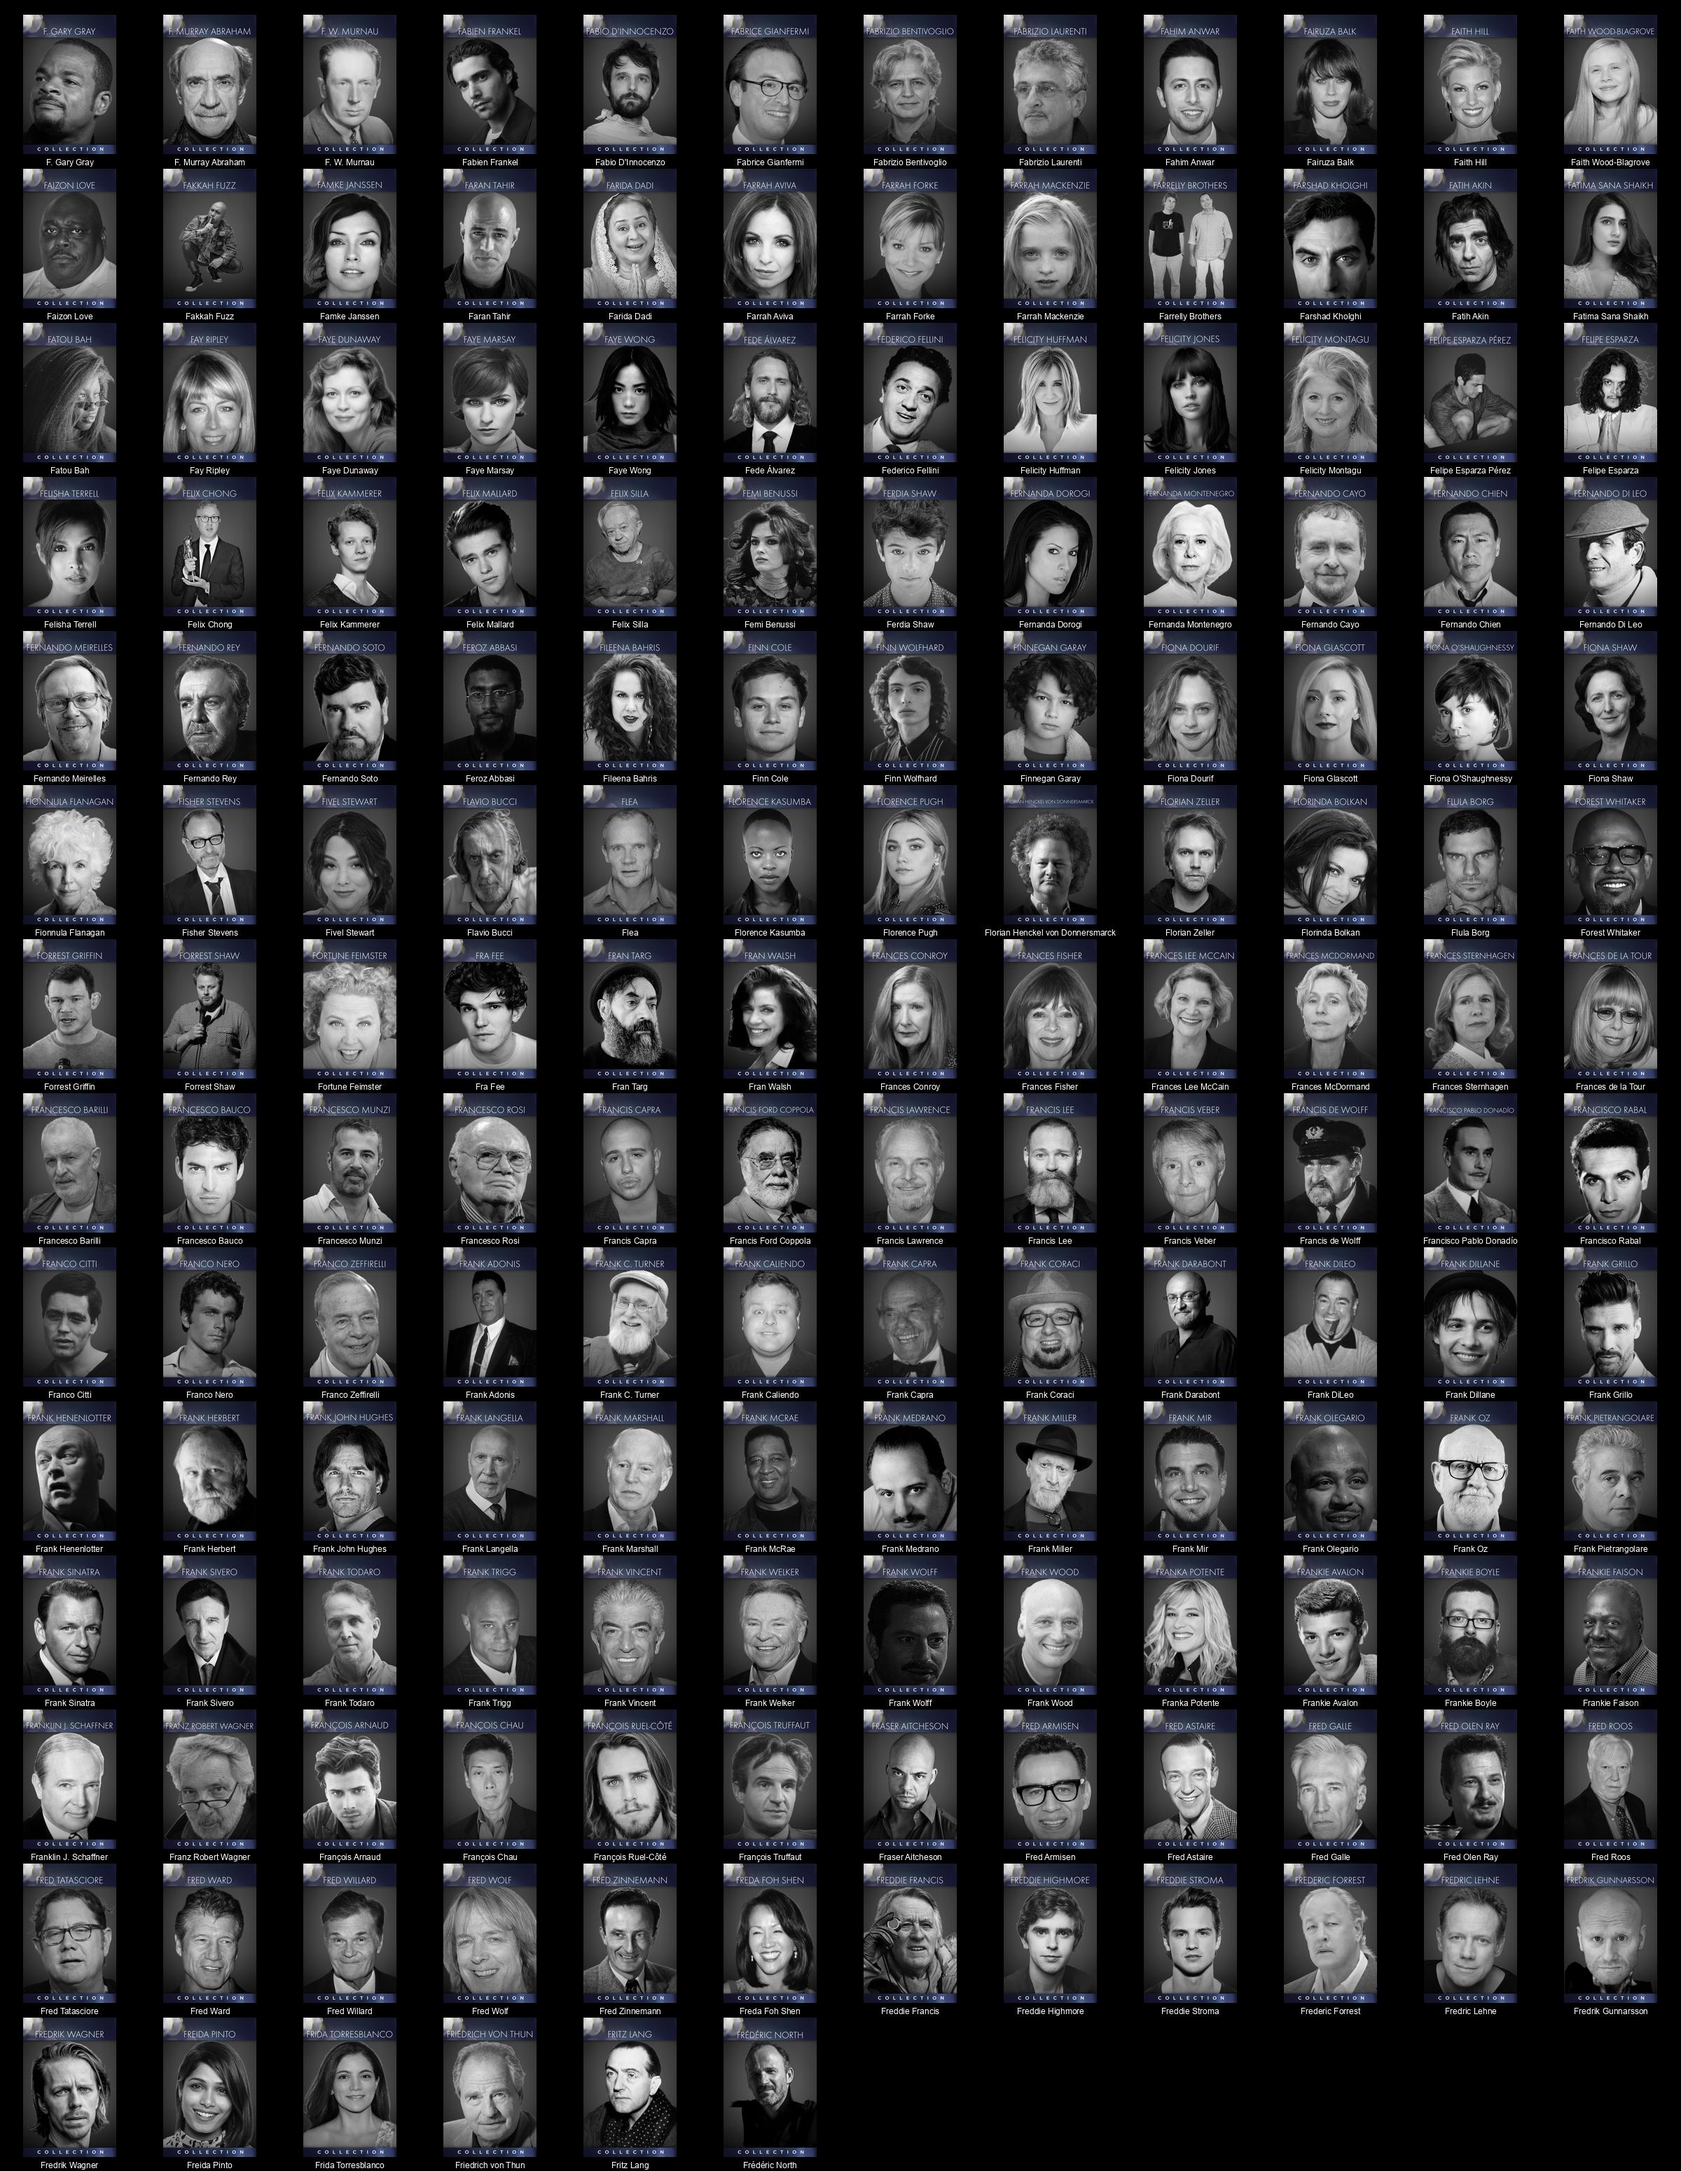
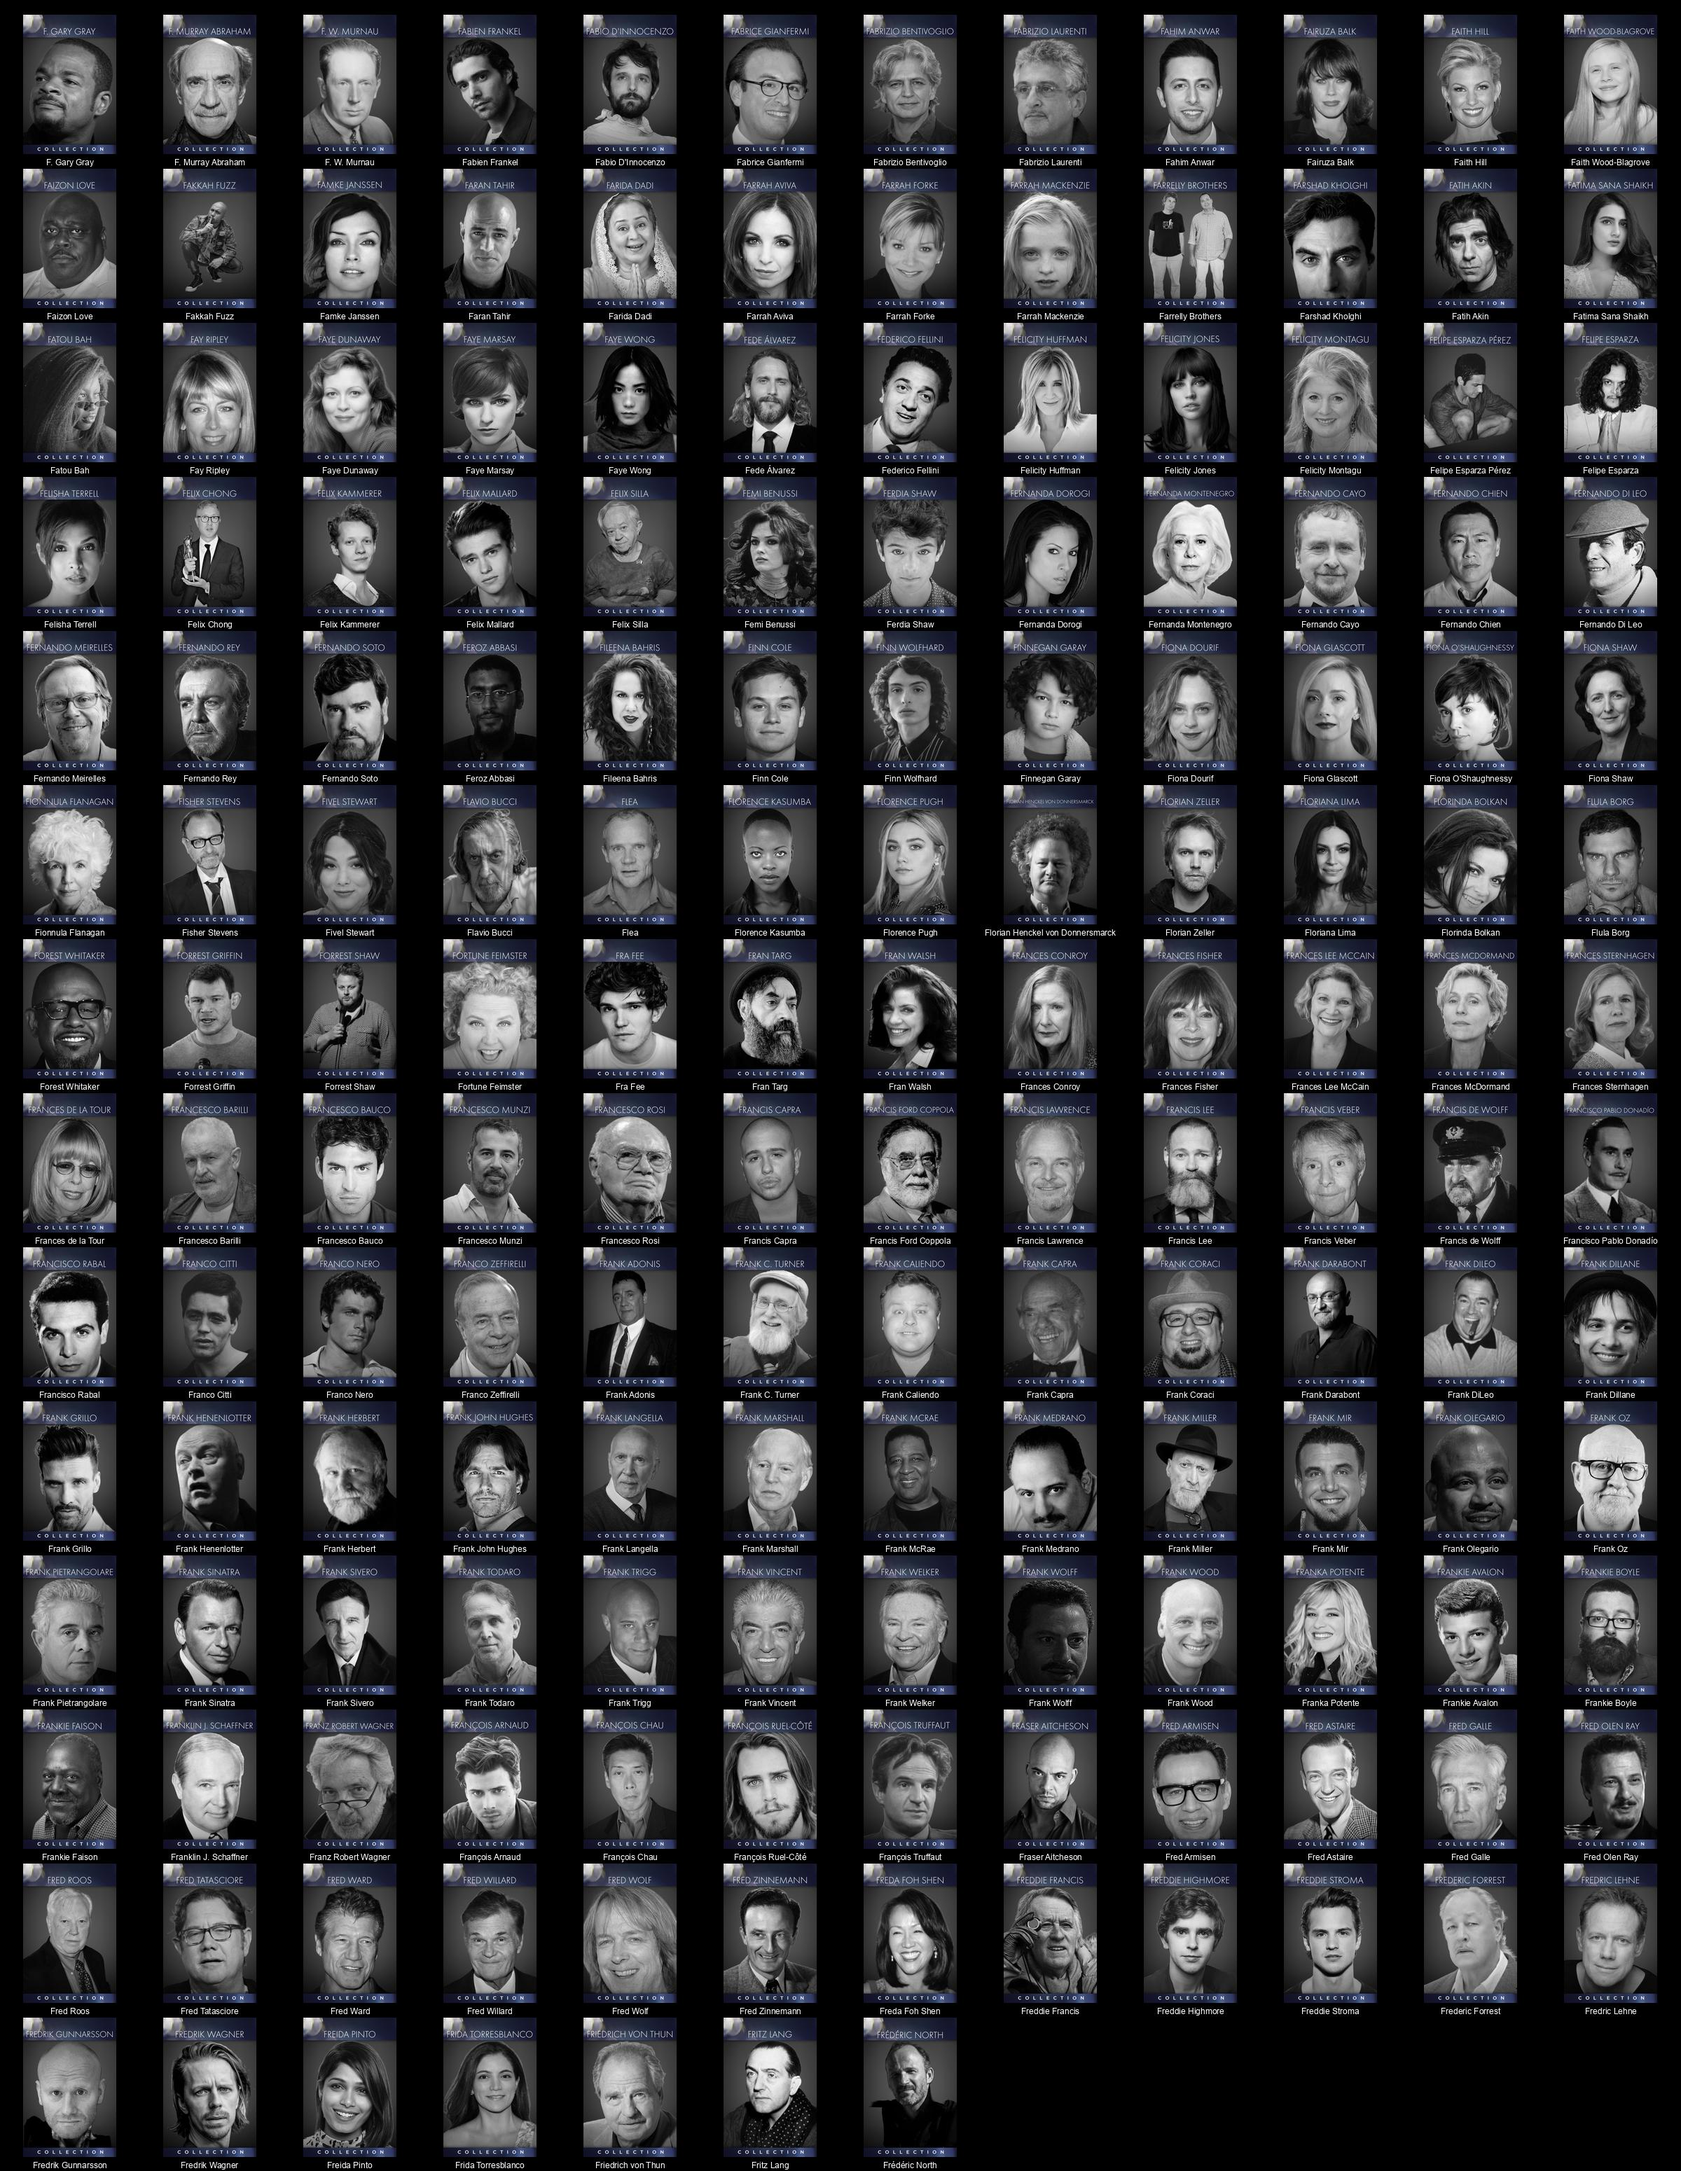
Readme Update

Changed region(s): [[0.4375, 0.3716, 1.0, 1.0], [0.0, 0.4335, 0.4062, 1.0]]

diff --git a/README.md b/README.md
@@ -1,4 +1,4 @@
-# Plex Meta Manager People - DIIIVOY (diiivoy) (8764 Images)
+# Plex Meta Manager People - DIIIVOY (diiivoy) (8767 Images)
 
 <details><summary><a href="'">' (1 Images)</a></summary>
 
@@ -2688,7 +2688,7 @@
 * [Ezra Buzzington](https://raw.githubusercontent.com/meisnate12/Plex-Meta-Manager-People-diiivoy/master/E/Images/Ezra%20Buzzington.jpg)
 * [Ezra Miller](https://raw.githubusercontent.com/meisnate12/Plex-Meta-Manager-People-diiivoy/master/E/Images/Ezra%20Miller.jpg)
 </details>
-<details><summary><a href="F">F (162 Images)</a></summary>
+<details><summary><a href="F">F (163 Images)</a></summary>
 
 * [F. Gary Gray](https://raw.githubusercontent.com/meisnate12/Plex-Meta-Manager-People-diiivoy/master/F/Images/F.%20Gary%20Gray.jpg)
 * [F. Murray Abraham](https://raw.githubusercontent.com/meisnate12/Plex-Meta-Manager-People-diiivoy/master/F/Images/F.%20Murray%20Abraham.jpg)
@@ -2759,6 +2759,7 @@
 * [Florence Pugh](https://raw.githubusercontent.com/meisnate12/Plex-Meta-Manager-People-diiivoy/master/F/Images/Florence%20Pugh.jpg)
 * [Florian Henckel von Donnersmarck](https://raw.githubusercontent.com/meisnate12/Plex-Meta-Manager-People-diiivoy/master/F/Images/Florian%20Henckel%20von%20Donnersmarck.jpg)
 * [Florian Zeller](https://raw.githubusercontent.com/meisnate12/Plex-Meta-Manager-People-diiivoy/master/F/Images/Florian%20Zeller.jpg)
+* [Floriana Lima](https://raw.githubusercontent.com/meisnate12/Plex-Meta-Manager-People-diiivoy/master/F/Images/Floriana%20Lima.jpg)
 * [Florinda Bolkan](https://raw.githubusercontent.com/meisnate12/Plex-Meta-Manager-People-diiivoy/master/F/Images/Florinda%20Bolkan.jpg)
 * [Flula Borg](https://raw.githubusercontent.com/meisnate12/Plex-Meta-Manager-People-diiivoy/master/F/Images/Flula%20Borg.jpg)
 * [Forest Whitaker](https://raw.githubusercontent.com/meisnate12/Plex-Meta-Manager-People-diiivoy/master/F/Images/Forest%20Whitaker.jpg)
@@ -2853,7 +2854,7 @@
 * [Fritz Lang](https://raw.githubusercontent.com/meisnate12/Plex-Meta-Manager-People-diiivoy/master/F/Images/Fritz%20Lang.jpg)
 * [Frédéric North](https://raw.githubusercontent.com/meisnate12/Plex-Meta-Manager-People-diiivoy/master/F/Images/Fr%C3%A9d%C3%A9ric%20North.jpg)
 </details>
-<details><summary><a href="G">G (304 Images)</a></summary>
+<details><summary><a href="G">G (305 Images)</a></summary>
 
 * [G-Eazy](https://raw.githubusercontent.com/meisnate12/Plex-Meta-Manager-People-diiivoy/master/G/Images/G-Eazy.jpg)
 * [G. D. Spradlin](https://raw.githubusercontent.com/meisnate12/Plex-Meta-Manager-People-diiivoy/master/G/Images/G.%20D.%20Spradlin.jpg)
@@ -3084,6 +3085,7 @@
 * [Govindan Kutty](https://raw.githubusercontent.com/meisnate12/Plex-Meta-Manager-People-diiivoy/master/G/Images/Govindan%20Kutty.jpg)
 * [Grace Gummer](https://raw.githubusercontent.com/meisnate12/Plex-Meta-Manager-People-diiivoy/master/G/Images/Grace%20Gummer.jpg)
 * [Grace Kelly](https://raw.githubusercontent.com/meisnate12/Plex-Meta-Manager-People-diiivoy/master/G/Images/Grace%20Kelly.jpg)
+* [Grace Park](https://raw.githubusercontent.com/meisnate12/Plex-Meta-Manager-People-diiivoy/master/G/Images/Grace%20Park.jpg)
 * [Grace Rex](https://raw.githubusercontent.com/meisnate12/Plex-Meta-Manager-People-diiivoy/master/G/Images/Grace%20Rex.jpg)
 * [Grace Zabriskie](https://raw.githubusercontent.com/meisnate12/Plex-Meta-Manager-People-diiivoy/master/G/Images/Grace%20Zabriskie.jpg)
 * [Grady Powell](https://raw.githubusercontent.com/meisnate12/Plex-Meta-Manager-People-diiivoy/master/G/Images/Grady%20Powell.jpg)
@@ -6478,7 +6480,7 @@
 * [Owen Teale](https://raw.githubusercontent.com/meisnate12/Plex-Meta-Manager-People-diiivoy/master/O/Images/Owen%20Teale.jpg)
 * [Owen Wilson](https://raw.githubusercontent.com/meisnate12/Plex-Meta-Manager-People-diiivoy/master/O/Images/Owen%20Wilson.jpg)
 </details>
-<details><summary><a href="P">P (346 Images)</a></summary>
+<details><summary><a href="P">P (347 Images)</a></summary>
 
 * [P.H. Moriarty](https://raw.githubusercontent.com/meisnate12/Plex-Meta-Manager-People-diiivoy/master/P/Images/P.H.%20Moriarty.jpg)
 * [P.J. Byrne](https://raw.githubusercontent.com/meisnate12/Plex-Meta-Manager-People-diiivoy/master/P/Images/P.J.%20Byrne.jpg)
@@ -6530,6 +6532,7 @@
 * [Patricia Arquette](https://raw.githubusercontent.com/meisnate12/Plex-Meta-Manager-People-diiivoy/master/P/Images/Patricia%20Arquette.jpg)
 * [Patricia Clarkson](https://raw.githubusercontent.com/meisnate12/Plex-Meta-Manager-People-diiivoy/master/P/Images/Patricia%20Clarkson.jpg)
 * [Patricia López Arnaiz](https://raw.githubusercontent.com/meisnate12/Plex-Meta-Manager-People-diiivoy/master/P/Images/Patricia%20L%C3%B3pez%20Arnaiz.jpg)
+* [Patricia Parker](https://raw.githubusercontent.com/meisnate12/Plex-Meta-Manager-People-diiivoy/master/P/Images/Patricia%20Parker.jpg)
 * [Patricia Velásquez](https://raw.githubusercontent.com/meisnate12/Plex-Meta-Manager-People-diiivoy/master/P/Images/Patricia%20Vel%C3%A1squez.jpg)
 * [Patrick Barlow](https://raw.githubusercontent.com/meisnate12/Plex-Meta-Manager-People-diiivoy/master/P/Images/Patrick%20Barlow.jpg)
 * [Patrick Brammall](https://raw.githubusercontent.com/meisnate12/Plex-Meta-Manager-People-diiivoy/master/P/Images/Patrick%20Brammall.jpg)

diff --git a/P/README.md b/P/README.md
@@ -1,4 +1,4 @@
-# Plex Meta Manager People - DIIIVOY (diiivoy) - P (346 Images)
+# Plex Meta Manager People - DIIIVOY (diiivoy) - P (347 Images)
 ![Grid](grid.jpg)
 
 * [P.H. Moriarty](https://raw.githubusercontent.com/meisnate12/Plex-Meta-Manager-People-diiivoy/master/P/Images/P.H.%20Moriarty.jpg)
@@ -51,6 +51,7 @@
 * [Patricia Arquette](https://raw.githubusercontent.com/meisnate12/Plex-Meta-Manager-People-diiivoy/master/P/Images/Patricia%20Arquette.jpg)
 * [Patricia Clarkson](https://raw.githubusercontent.com/meisnate12/Plex-Meta-Manager-People-diiivoy/master/P/Images/Patricia%20Clarkson.jpg)
 * [Patricia López Arnaiz](https://raw.githubusercontent.com/meisnate12/Plex-Meta-Manager-People-diiivoy/master/P/Images/Patricia%20L%C3%B3pez%20Arnaiz.jpg)
+* [Patricia Parker](https://raw.githubusercontent.com/meisnate12/Plex-Meta-Manager-People-diiivoy/master/P/Images/Patricia%20Parker.jpg)
 * [Patricia Velásquez](https://raw.githubusercontent.com/meisnate12/Plex-Meta-Manager-People-diiivoy/master/P/Images/Patricia%20Vel%C3%A1squez.jpg)
 * [Patrick Barlow](https://raw.githubusercontent.com/meisnate12/Plex-Meta-Manager-People-diiivoy/master/P/Images/Patrick%20Barlow.jpg)
 * [Patrick Brammall](https://raw.githubusercontent.com/meisnate12/Plex-Meta-Manager-People-diiivoy/master/P/Images/Patrick%20Brammall.jpg)

diff --git a/F/README.md b/F/README.md
@@ -1,4 +1,4 @@
-# Plex Meta Manager People - DIIIVOY (diiivoy) - F (162 Images)
+# Plex Meta Manager People - DIIIVOY (diiivoy) - F (163 Images)
 ![Grid](grid.jpg)
 
 * [F. Gary Gray](https://raw.githubusercontent.com/meisnate12/Plex-Meta-Manager-People-diiivoy/master/F/Images/F.%20Gary%20Gray.jpg)
@@ -70,6 +70,7 @@
 * [Florence Pugh](https://raw.githubusercontent.com/meisnate12/Plex-Meta-Manager-People-diiivoy/master/F/Images/Florence%20Pugh.jpg)
 * [Florian Henckel von Donnersmarck](https://raw.githubusercontent.com/meisnate12/Plex-Meta-Manager-People-diiivoy/master/F/Images/Florian%20Henckel%20von%20Donnersmarck.jpg)
 * [Florian Zeller](https://raw.githubusercontent.com/meisnate12/Plex-Meta-Manager-People-diiivoy/master/F/Images/Florian%20Zeller.jpg)
+* [Floriana Lima](https://raw.githubusercontent.com/meisnate12/Plex-Meta-Manager-People-diiivoy/master/F/Images/Floriana%20Lima.jpg)
 * [Florinda Bolkan](https://raw.githubusercontent.com/meisnate12/Plex-Meta-Manager-People-diiivoy/master/F/Images/Florinda%20Bolkan.jpg)
 * [Flula Borg](https://raw.githubusercontent.com/meisnate12/Plex-Meta-Manager-People-diiivoy/master/F/Images/Flula%20Borg.jpg)
 * [Forest Whitaker](https://raw.githubusercontent.com/meisnate12/Plex-Meta-Manager-People-diiivoy/master/F/Images/Forest%20Whitaker.jpg)

diff --git a/G/README.md b/G/README.md
@@ -1,4 +1,4 @@
-# Plex Meta Manager People - DIIIVOY (diiivoy) - G (304 Images)
+# Plex Meta Manager People - DIIIVOY (diiivoy) - G (305 Images)
 ![Grid](grid.jpg)
 
 * [G-Eazy](https://raw.githubusercontent.com/meisnate12/Plex-Meta-Manager-People-diiivoy/master/G/Images/G-Eazy.jpg)
@@ -230,6 +230,7 @@
 * [Govindan Kutty](https://raw.githubusercontent.com/meisnate12/Plex-Meta-Manager-People-diiivoy/master/G/Images/Govindan%20Kutty.jpg)
 * [Grace Gummer](https://raw.githubusercontent.com/meisnate12/Plex-Meta-Manager-People-diiivoy/master/G/Images/Grace%20Gummer.jpg)
 * [Grace Kelly](https://raw.githubusercontent.com/meisnate12/Plex-Meta-Manager-People-diiivoy/master/G/Images/Grace%20Kelly.jpg)
+* [Grace Park](https://raw.githubusercontent.com/meisnate12/Plex-Meta-Manager-People-diiivoy/master/G/Images/Grace%20Park.jpg)
 * [Grace Rex](https://raw.githubusercontent.com/meisnate12/Plex-Meta-Manager-People-diiivoy/master/G/Images/Grace%20Rex.jpg)
 * [Grace Zabriskie](https://raw.githubusercontent.com/meisnate12/Plex-Meta-Manager-People-diiivoy/master/G/Images/Grace%20Zabriskie.jpg)
 * [Grady Powell](https://raw.githubusercontent.com/meisnate12/Plex-Meta-Manager-People-diiivoy/master/G/Images/Grady%20Powell.jpg)
